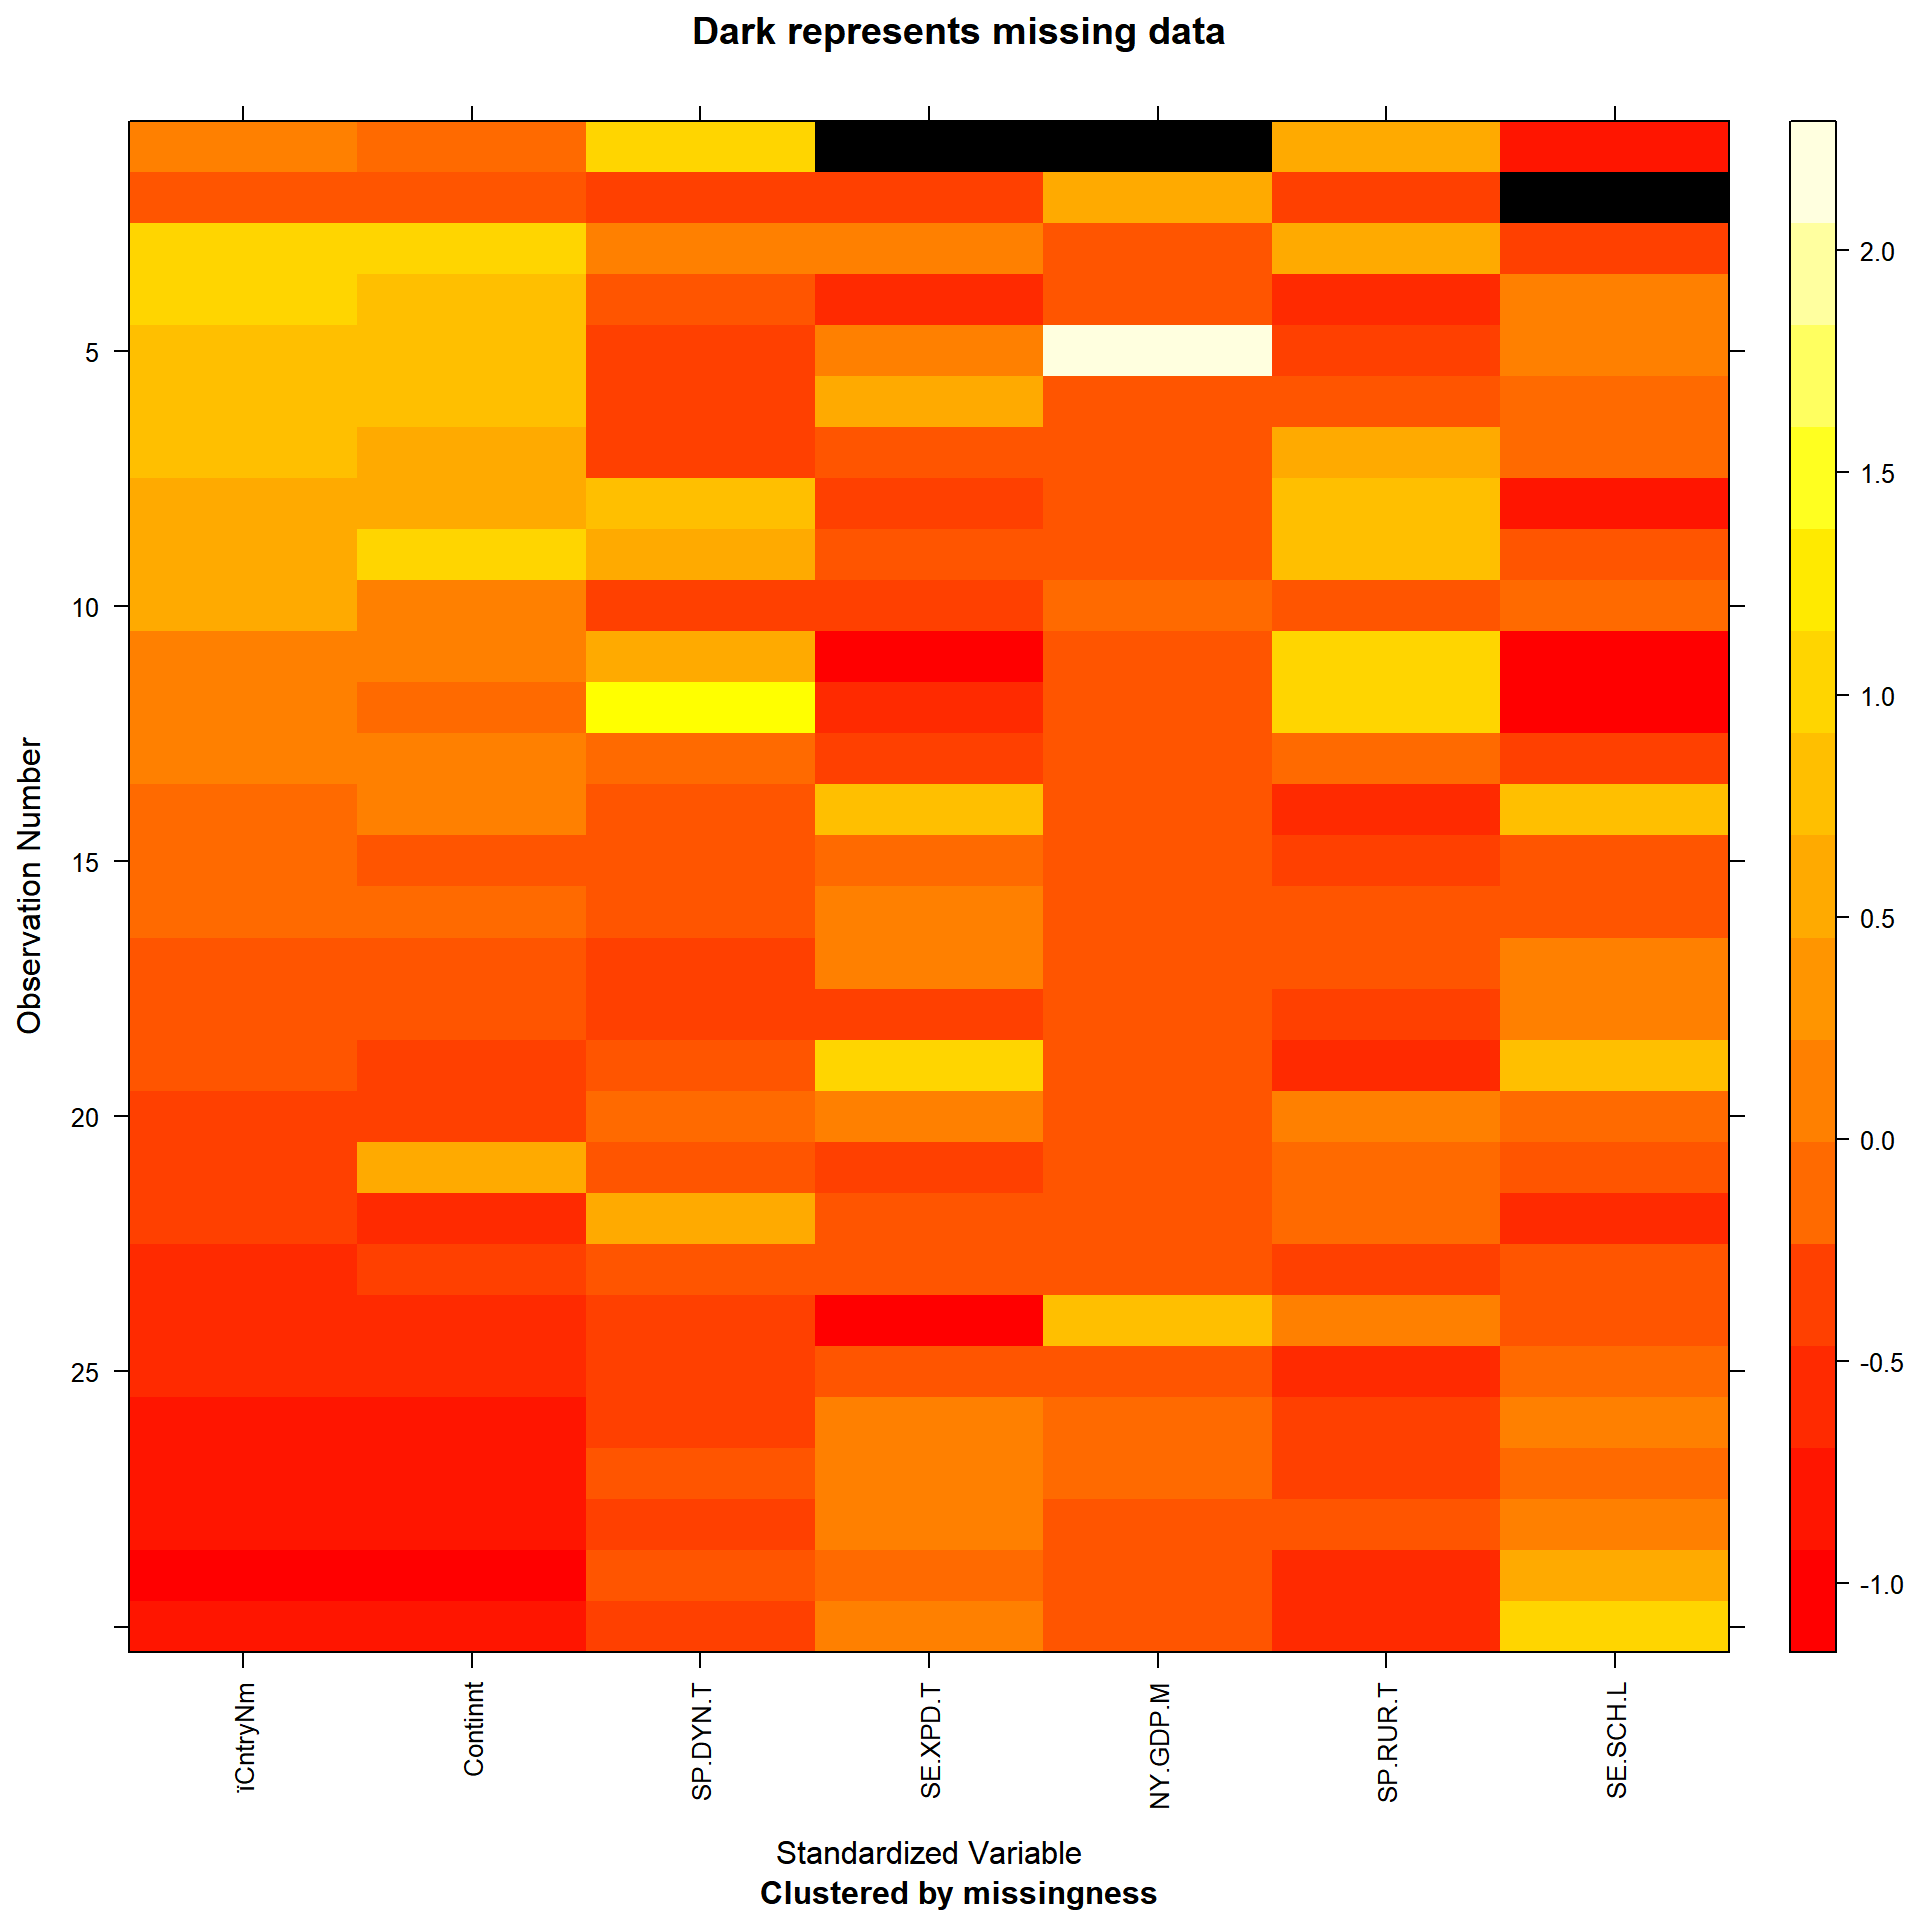
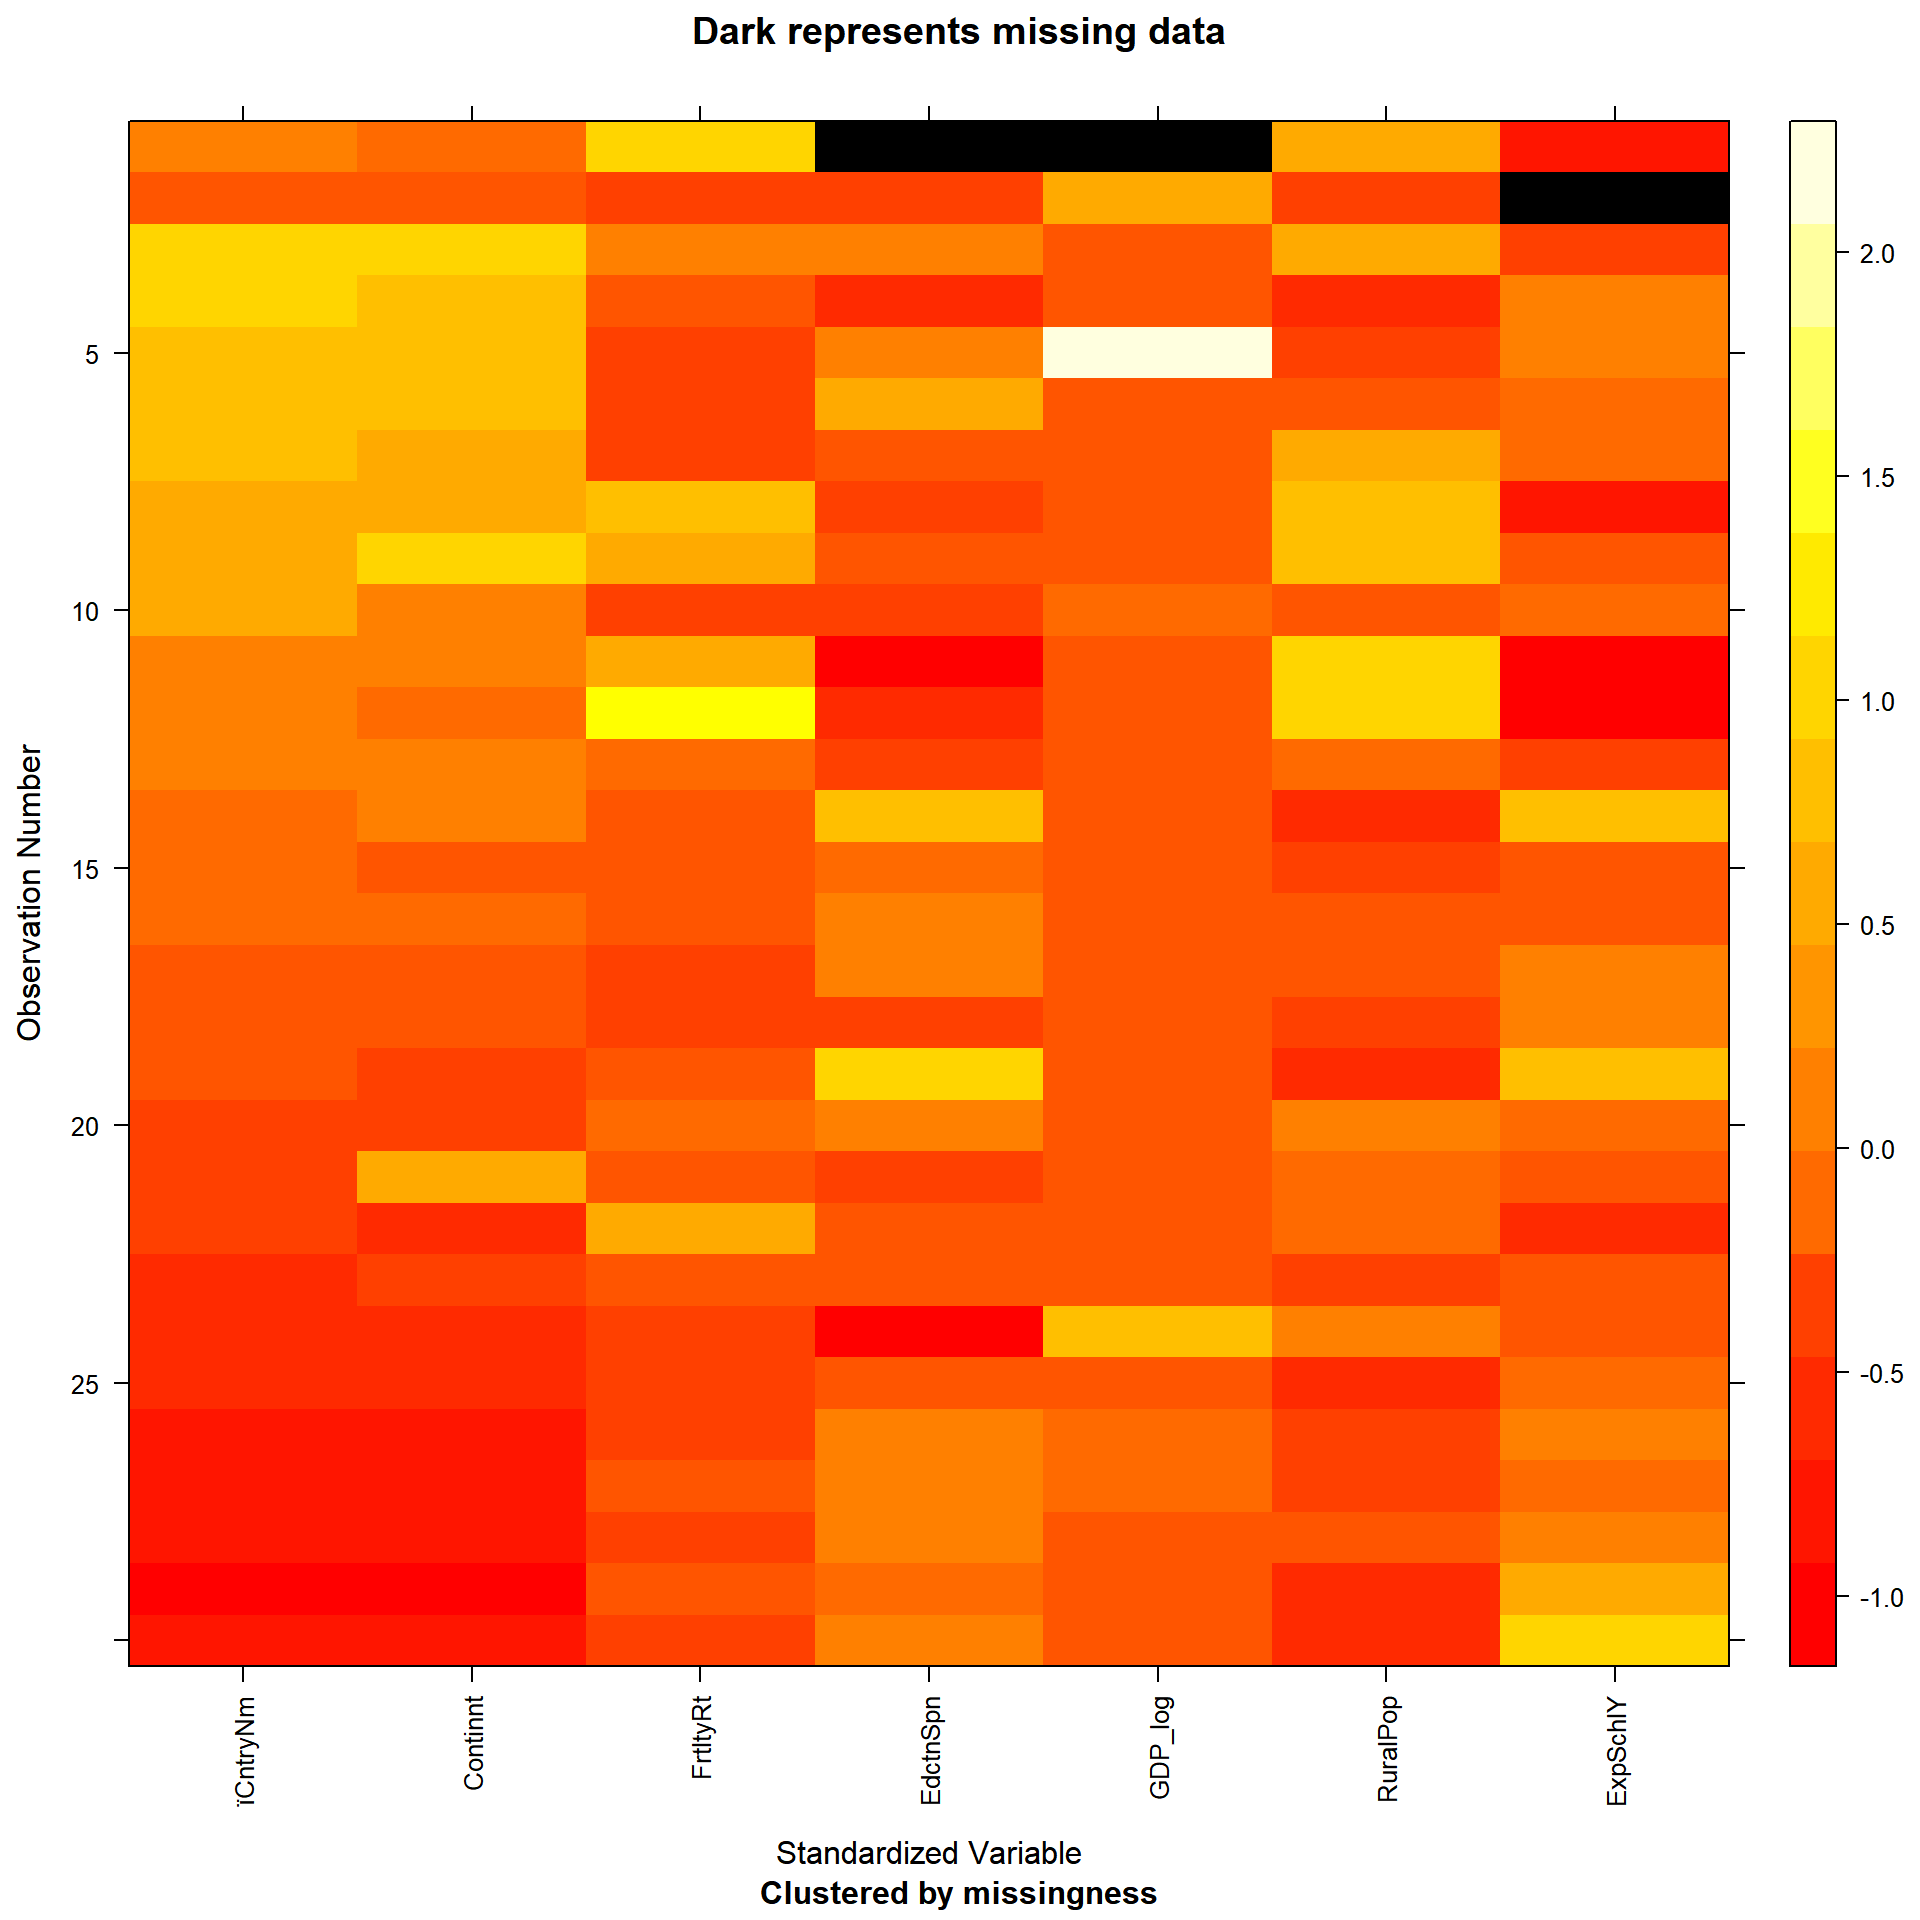
Fixed naming issue on missing values figure.

diff --git a/docs/missing-values.html b/docs/missing-values.html
@@ -51,10 +51,6 @@
 
 
 <script src="libs/accessible-code-block-0.0.1/empty-anchor.js"></script>
-<script src="libs/htmlwidgets-1.5.3/htmlwidgets.js"></script>
-<link href="libs/parallel-coordinates-2.1.8/parcoords.css" rel="stylesheet" />
-<script src="libs/parcoords-binding-1.0.0/parcoords.js"></script>
-<script src="libs/d3-5.16.0/d3.min.js"></script>
 
 
 
@@ -118,8 +114,8 @@
 <h2><span class="header-section-number">4.2</span> Education</h2>
 <pre><code>## NOTE: The following pairs of variables appear to have the same missingness pattern.
 ##  Please verify whether they are in fact logically distinct variables.
-##      [,1]                [,2]            
-## [1,] &quot;SE.XPD.TOTL.GD.ZS&quot; &quot;NY.GDP.MKTP.CD&quot;</code></pre>
+##      [,1]             [,2]     
+## [1,] &quot;EducationSpend&quot; &quot;GDP_log&quot;</code></pre>
 <p><img src="finalproj_files/figure-html/unnamed-chunk-14-1.png" width="960" /></p>
 <p>The above heatmap shows the missing value for the parallel coordinates in part 5.2. There are only three missing values in this data frame that has 30 rows and 7 columns. As all the data entries (except for country name and continent) are average scores across 25 years, the missing data here actually represents a 25 years data missing in our original data file. Thus, this heatmap implies that in the 30 countries we chose, there is one country have no data entry for education spend, one country has no data for expected school year, and one with missing value for GDP in the recent 25 years.</p>
 </div>
